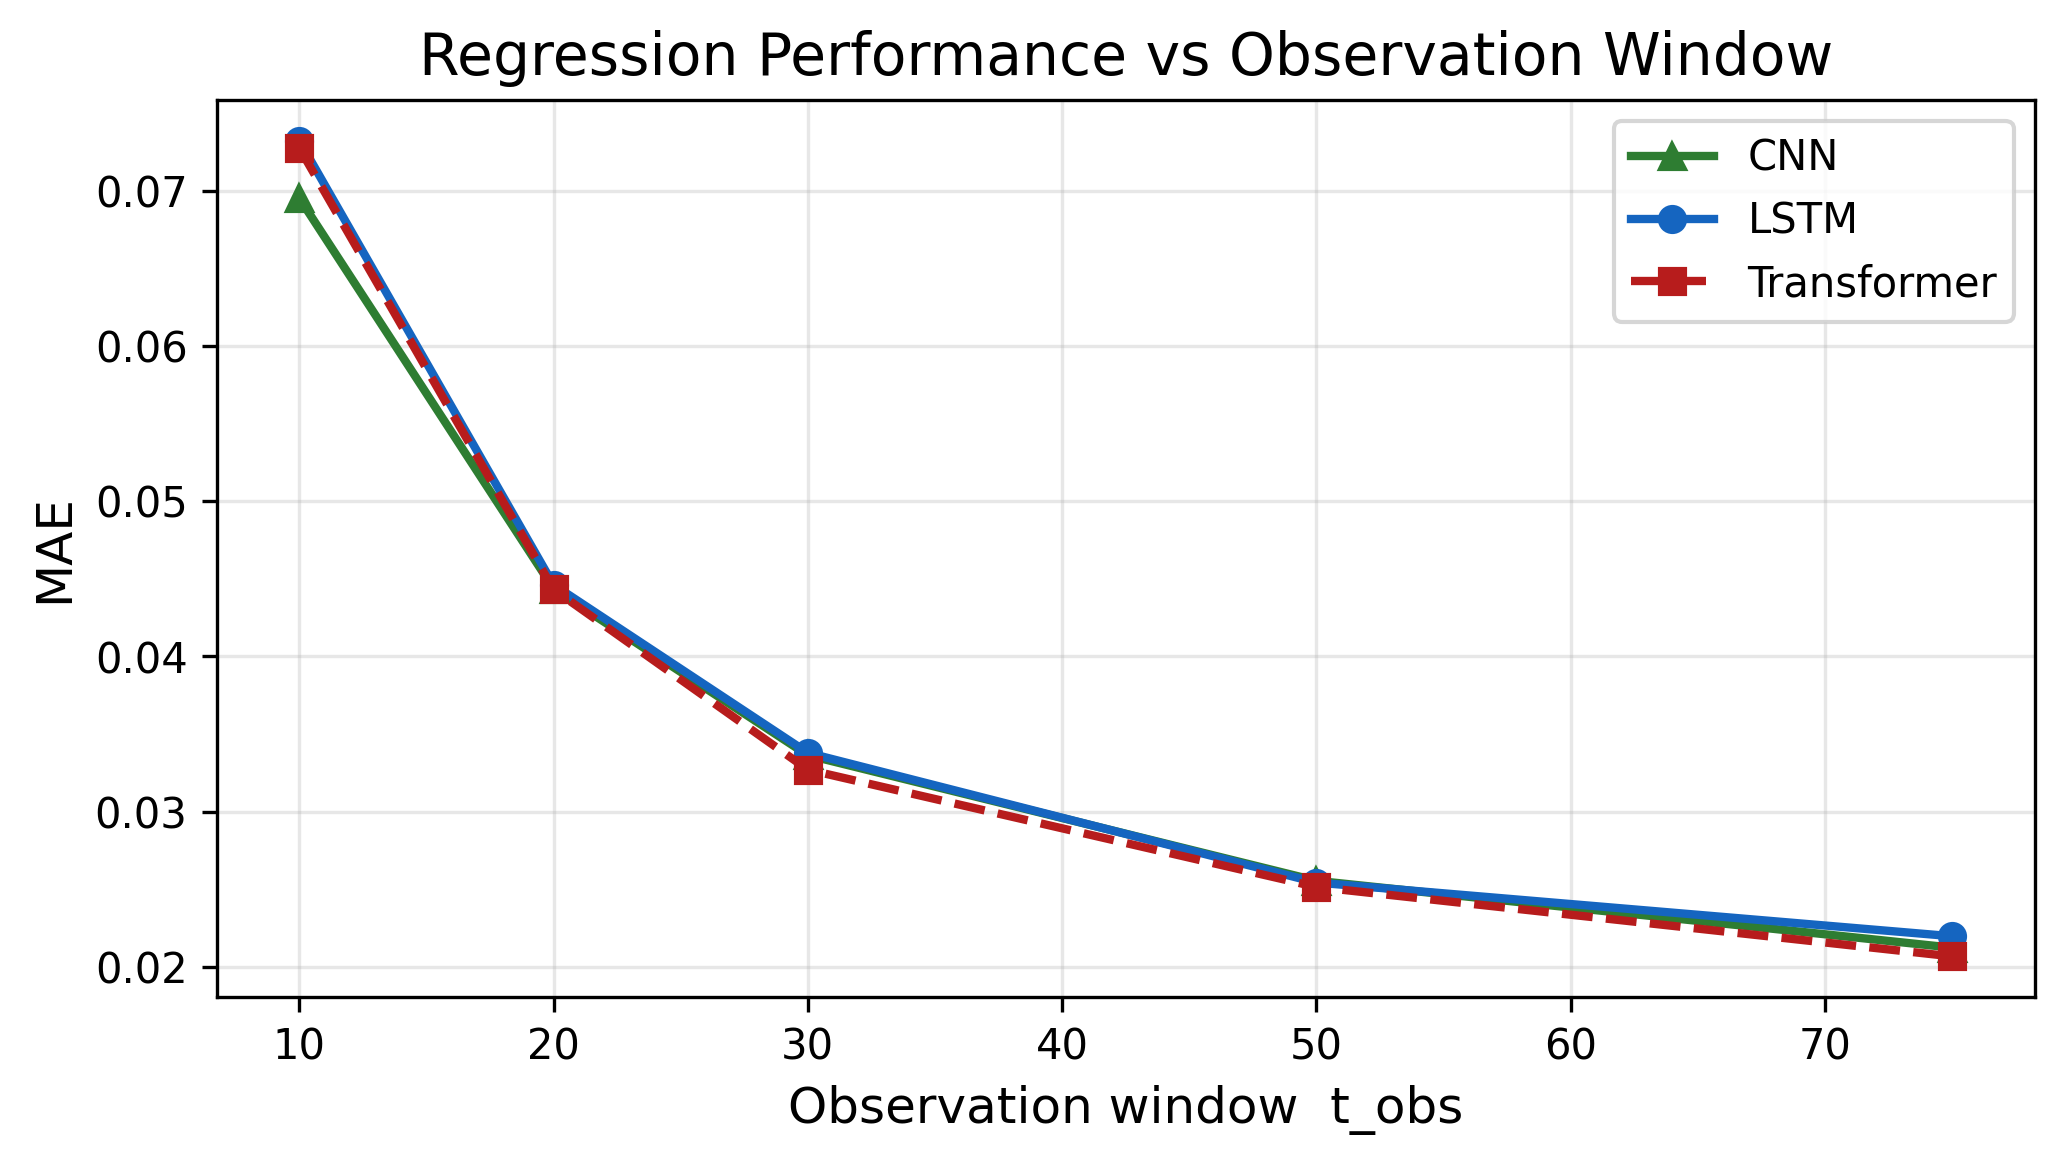
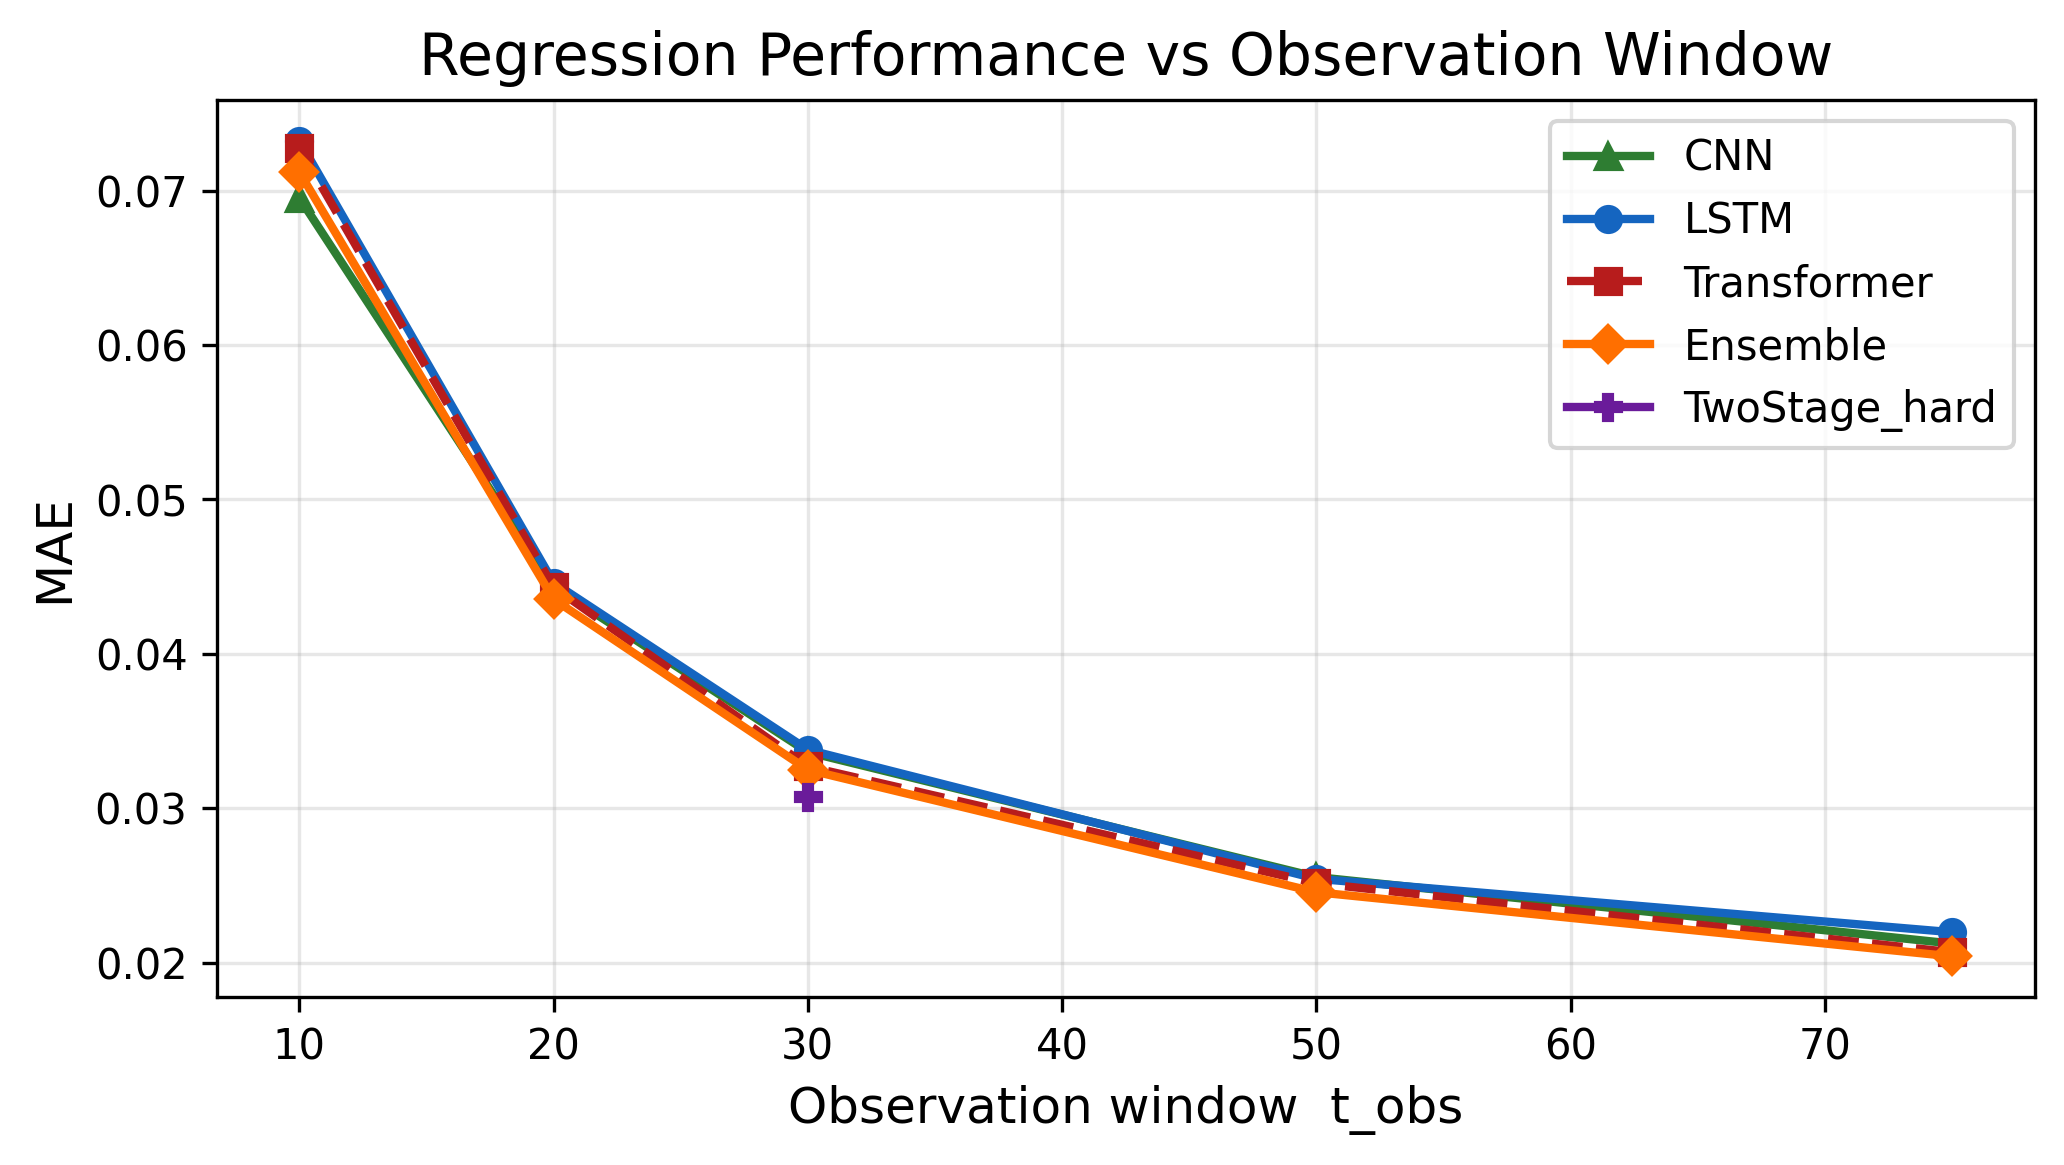
Mixture of expertsv2

diff --git a/src/dl/run_experiments.py b/src/dl/run_experiments.py
@@ -23,7 +23,7 @@ TRAIN_TRANSFORMER = True
 TRAIN_ENSEMBLE    = True
 TRAIN_MOE         = False
 TRAIN_TWO_STAGE   = True   # two-stage specialist training (CNN only, T_OBS_DEFAULT)
-RUN_VISUALISATIONS = False
+RUN_VISUALISATIONS = True
 FORCE_RETRAIN     = False
 
 T_OBS_VALUES  = [10, 20, 30, 50, 75]
@@ -59,7 +59,7 @@ if __package__ is None or __package__ == "":
     from dl.models import CNNEmbedder, LSTMEmbedder, TransformerEmbedder, SpecialistRegHead, EMBEDDING_DIM
     from dl.trainer import Trainer
     from dl.mixture_of_experts import MixtureOfExperts
-    from dl.wrappers import DLRegressor, DLClassifier, DLTwoStageRegressor
+    from dl.wrappers import DLRegressor, DLClassifier, DLTwoStageRegressor, DLDynamicRegressor, DLDynamicClassifier
     from dl.visualisation import (
         plot_R1_mae_vs_window, plot_R2_pred_vs_true, plot_R3_per_model_mae,
         plot_R4_embedding_2d, plot_C1_accuracy_vs_window, plot_C2_confusion_matrix,
@@ -70,7 +70,7 @@ else:
     from .models import CNNEmbedder, LSTMEmbedder, TransformerEmbedder, SpecialistRegHead, EMBEDDING_DIM
     from .trainer import Trainer
     from .mixture_of_experts import MixtureOfExperts
-    from .wrappers import DLRegressor, DLClassifier, DLTwoStageRegressor
+    from .wrappers import DLRegressor, DLClassifier, DLTwoStageRegressor, DLDynamicRegressor, DLDynamicClassifier
     from .visualisation import (
         plot_R1_mae_vs_window, plot_R2_pred_vs_true, plot_R3_per_model_mae,
         plot_R4_embedding_2d, plot_C1_accuracy_vs_window, plot_C2_confusion_matrix,
@@ -280,58 +280,71 @@ def save_dl_models(arch_name: str = "CNN", t_obs: int = T_OBS_DEFAULT):
     """
     Wrap trained DL models as sklearn-compatible objects and serialise to ml_data/:
 
-      dl_regressor.pkl  — DLTwoStageRegressor if specialists exist, else DLRegressor
-      dl_classifier.pkl — DLClassifier (predicts model_id from raw I(t)/N series)
+      dl_regressor.pkl  — DLDynamicRegressor  (auto-selects best t_obs for input length)
+      dl_classifier.pkl — DLDynamicClassifier (same)
 
-    Mirrors ml_analysis.py's save_models() so the app can load both identically.
-    Requires a bundle checkpoint (run run_experiments.py at least once first).
+    Collects all available CNN checkpoints across T_OBS_VALUES. At each t_obs,
+    uses DLTwoStageRegressor if a specialist checkpoint exists, else DLRegressor.
+    Falls back to a single-model wrapper if only one checkpoint is available.
     """
-    print(f"\n── SAVING DL MODELS ({arch_name}, t_obs={t_obs}) ───────────────────")
-    ckpt = _ckpt_path(arch_name, t_obs)
-    if not os.path.exists(ckpt):
+    print(f"\n── SAVING DL MODELS ({arch_name}) ───────────────────────────────────")
+
+    reg_models: dict = {}
+    clf_models: dict = {}
+
+    for t in T_OBS_VALUES:
+        ckpt = _ckpt_path(arch_name, t)
+        if not os.path.exists(ckpt):
+            continue
+
+        data = torch.load(ckpt, map_location="cpu", weights_only=False)
+        if not isinstance(data, dict) or "state_dict" not in data:
+            print(f"  Skipping t_obs={t}: old checkpoint format (retrain to upgrade).")
+            continue
+
+        kwargs = dict(
+            state_dict = data["state_dict"],
+            arch_name  = data["arch_name"],
+            n_features = data["n_features"],
+            t_obs      = data["t_obs"],
+            norm_max   = data["norm_max"],
+            feat_mean  = data["feat_mean"],
+            feat_std   = data["feat_std"],
+        )
+
+        spec_ckpt = _spec_ckpt_path(t)
+        if os.path.exists(spec_ckpt):
+            spec_data  = torch.load(spec_ckpt, map_location="cpu", weights_only=False)
+            reg_models[t] = DLTwoStageRegressor(**kwargs, specialist_heads=spec_data["reg_heads"])
+            reg_label  = "TwoStage"
+        else:
+            reg_models[t] = DLRegressor(**kwargs)
+            reg_label  = "generalist"
+
+        clf_models[t] = DLClassifier(**kwargs)
+        print(f"  t_obs={t:3d}: {reg_label} regressor + classifier loaded")
+
+    if not reg_models:
         raise FileNotFoundError(
-            f"No checkpoint found: {ckpt}\n"
-            "Run run_experiments.py first to train the model."
+            f"No bundle checkpoints found for {arch_name}.\n"
+            "Run run_experiments.py first to train the models."
         )
 
-    data = torch.load(ckpt, map_location="cpu", weights_only=False)
-    if not isinstance(data, dict) or "state_dict" not in data:
-        raise ValueError(
-            f"{ckpt} is in old format (raw state_dict).\n"
-            "Load it once via run_experiments.py to auto-upgrade, then retry."
-        )
-
-    kwargs = dict(
-        state_dict = data["state_dict"],
-        arch_name  = data["arch_name"],
-        n_features = data["n_features"],
-        t_obs      = data["t_obs"],
-        norm_max   = data["norm_max"],
-        feat_mean  = data["feat_mean"],
-        feat_std   = data["feat_std"],
-    )
-
-    # Use two-stage regressor if specialist checkpoint is available
-    spec_ckpt = _spec_ckpt_path(t_obs)
-    if os.path.exists(spec_ckpt):
-        spec_data = torch.load(spec_ckpt, map_location="cpu", weights_only=False)
-        reg = DLTwoStageRegressor(**kwargs, specialist_heads=spec_data["reg_heads"])
-        reg_label = "DLTwoStageRegressor"
+    if len(reg_models) > 1:
+        reg = DLDynamicRegressor(reg_models)
+        clf = DLDynamicClassifier(clf_models)
+        wrapper_label = f"DLDynamicRegressor/Classifier ({len(reg_models)} windows: {sorted(reg_models)})"
     else:
-        reg = DLRegressor(**kwargs)
-        reg_label = "DLRegressor"
-
-    clf = DLClassifier(**kwargs)
+        t_only = next(iter(reg_models))
+        reg = reg_models[t_only]
+        clf = clf_models[t_only]
+        wrapper_label = f"single t_obs={t_only}"
 
     reg_path = os.path.join(DATA_DIR, "dl_regressor.pkl")
     clf_path = os.path.join(DATA_DIR, "dl_classifier.pkl")
     joblib.dump(reg, reg_path)
     joblib.dump(clf, clf_path)
-
-    print(f"  dl_regressor.pkl  — {reg_label} ({arch_name}, t_obs={t_obs}, "
-          f"n_features={data['n_features']})")
-    print(f"  dl_classifier.pkl — DLClassifier ({arch_name}, t_obs={t_obs}, "
-          f"n_features={data['n_features']})")
+    print(f"  Saved: {wrapper_label}")
 
 
 # ── Main pipeline ─────────────────────────────────────────────────────────────

diff --git a/src/ui/tabs/ml_tab.py b/src/ui/tabs/ml_tab.py
@@ -49,12 +49,13 @@ except ImportError:
 
 def _find_ml_data() -> Path:
     for candidate in [
+        _SRC_DIR / "ml" / "ml_data",
         _SRC_DIR / "ml_data",
         _SRC_DIR.parent / "ml_data",
     ]:
         if candidate.exists() and (candidate / "dl_regressor.pkl").exists():
             return candidate
-    return _SRC_DIR / "ml_data"   # fallback — triggers demo mode
+    return _SRC_DIR / "ml" / "ml_data"   # fallback — triggers demo mode
 
 
 ML_DATA = _find_ml_data()
@@ -202,6 +203,11 @@ NETWORK_MULTIPLIER: dict[str, float] = {
     "Mixed social network (typical social media)":          1.00,
     "Influencer-driven network (few hubs, many followers)": 1.38,
 }
+
+# SIS-type models reach a long-run endemic equilibrium rather than dying out.
+# rho_final for these models = endemic steady-state fraction (NOT cumulative reach).
+# The peak of the trajectory is the more meaningful "maximum spread" metric.
+_ENDEMIC_MODELS = {"SIS", "WTM", "H4", "H5", "H6", "SIS-WTM hybrid"}
 
 TIPPING_THRESHOLDS: dict[str, float] = {
     "SIR": 0.05, "SIS": 0.05, "BP": 0.15, "WTM": 0.12,
@@ -729,7 +735,14 @@ def render_ml_virality_tab() -> None:
     conf        = res["confidence"]
     lo_pct      = max(0.0,   rho_pct - 1.5 * rho_std_pct)
     hi_pct      = min(100.0, rho_pct + 1.5 * rho_std_pct)
-    v_label, v_css, v_desc = _get_verdict(rho)
+
+    is_endemic  = model_name in _ENDEMIC_MODELS
+    traj_arr    = np.array(res["traj_pct"])
+    peak_pct    = float(traj_arr.max())
+    peak_rho    = peak_pct / 100.0
+
+    # For endemic models the verdict is driven by peak reach, not endemic level
+    v_label, v_css, v_desc = _get_verdict(peak_rho if is_endemic else rho)
 
     st.markdown("---")
 
@@ -745,18 +758,33 @@ def render_ml_virality_tab() -> None:
             f'</div>',
             unsafe_allow_html=True,
         )
-        st.metric("Predicted final reach", f"{rho_pct:.1f}%")
-        st.progress(float(np.clip(rho, 0, 1)))
-        st.markdown(
-            f'<div class="ml-ci-card">'
-            f'<p style="margin:0 0 6px 0;font-size:0.8rem;text-transform:uppercase;'
-            f'letter-spacing:0.08em;opacity:0.7">90% confidence interval</p>'
-            f'<h3 style="margin:0">{lo_pct:.1f}% &ndash; {hi_pct:.1f}%</h3>'
-            f'<p style="margin:6px 0 0 0;font-size:0.85rem;opacity:0.7">'
-            f'±{rho_std_pct:.1f} pp standard deviation</p>'
-            f'</div>',
-            unsafe_allow_html=True,
-        )
+
+        if is_endemic:
+            st.metric("Peak reach (maximum simultaneously infected)", f"{peak_pct:.1f}%")
+            st.progress(float(np.clip(peak_rho, 0, 1)))
+            st.markdown(
+                f'<div class="ml-ci-card">'
+                f'<p style="margin:0 0 6px 0;font-size:0.8rem;text-transform:uppercase;'
+                f'letter-spacing:0.08em;opacity:0.7">Endemic equilibrium level</p>'
+                f'<h3 style="margin:0">{rho_pct:.1f}%</h3>'
+                f'<p style="margin:6px 0 0 0;font-size:0.85rem;opacity:0.7">'
+                f'Long-run fraction remaining infected after the peak</p>'
+                f'</div>',
+                unsafe_allow_html=True,
+            )
+        else:
+            st.metric("Predicted final reach (cumulative ever-infected)", f"{rho_pct:.1f}%")
+            st.progress(float(np.clip(rho, 0, 1)))
+            st.markdown(
+                f'<div class="ml-ci-card">'
+                f'<p style="margin:0 0 6px 0;font-size:0.8rem;text-transform:uppercase;'
+                f'letter-spacing:0.08em;opacity:0.7">90% confidence interval</p>'
+                f'<h3 style="margin:0">{lo_pct:.1f}% &ndash; {hi_pct:.1f}%</h3>'
+                f'<p style="margin:6px 0 0 0;font-size:0.85rem;opacity:0.7">'
+                f'±{rho_std_pct:.1f} pp standard deviation</p>'
+                f'</div>',
+                unsafe_allow_html=True,
+            )
 
     with col_m:
         st.markdown(
@@ -856,26 +884,42 @@ def render_ml_virality_tab() -> None:
         extra_users = max(1, int(gap * 10_000))
         avg_step    = max(float(np.mean(np.diff(obs_arr))) / 100.0, 1e-5)
         hours_est   = max(1, int(gap / avg_step))
+        plateau_line = (
+            f"- Current trajectory suggests a peak of **{peak_pct:.1f}%** "
+            f"simultaneously infected, with a long-run endemic level of **{rho_pct:.1f}%**"
+            if is_endemic else
+            f"- Current trajectory suggests it will plateau at **{rho_pct:.1f}%** "
+            f"cumulative reach (ever-infected)"
+        )
         st.warning(
             f"⚠️ **This content has NOT yet crossed the viral tipping point.**\n\n"
             f"To push it over the threshold:\n\n"
             f"- Getting **{extra_users:,} more high-connectivity nodes** to share "
             f"in the next **{hours_est} steps** could trigger a cascade\n"
-            f"- Current trajectory suggests it will plateau at **{rho_pct:.1f}%** "
-            f"of the network"
+            f"{plateau_line}"
         )
 
     st.markdown("---")
     with st.expander("📋 Export Results"):
         graph_line = ("Graph-conditioned: Yes" if res.get("graph_conditioned")
                       else f"Network type        : {network_type or 'n/a'}")
+        if is_endemic:
+            reach_lines = (
+                f"Peak reach          : {peak_pct:.1f}%  (max simultaneously infected)\n"
+                f"Endemic equilibrium : {rho_pct:.1f}%  (long-run steady-state fraction)\n"
+            )
+        else:
+            reach_lines = (
+                f"Predicted reach     : {rho_pct:.1f}%  (range: {lo_pct:.1f}%–{hi_pct:.1f}%)\n"
+                f"                      (cumulative ever-infected)\n"
+            )
         summary_txt = (
             f"Virality Prediction Report\n"
             f"{'=' * 40}\n"
             f"Content type        : {content_type}\n"
             f"{graph_line}\n"
             f"Verdict             : {v_label}\n"
-            f"Predicted reach     : {rho_pct:.1f}%  (range: {lo_pct:.1f}%–{hi_pct:.1f}%)\n"
+            f"{reach_lines}"
             f"Spreading mechanism : {minfo['label']} ({model_name})\n"
             f"Confidence          : {conf * 100:.0f}%\n"
             f"Tipping point       : {'Crossed ✅' if crossed else 'Not yet ⚠️'}\n"

diff --git a/src/dl/wrappers.py b/src/dl/wrappers.py
@@ -15,6 +15,12 @@ Usage:
 Two-stage regressor (drop-in replacement for DLRegressor):
     reg = joblib.load("ml_data/dl_regressor.pkl")   # may be DLTwoStageRegressor
     rho = reg.predict(I_series_matrix)               # same interface
+
+Dynamic wrappers (select best-matching t_obs at inference):
+    reg = joblib.load("ml_data/dl_regressor.pkl")   # DLDynamicRegressor
+    clf = joblib.load("ml_data/dl_classifier.pkl")  # DLDynamicClassifier
+    # Model with t_obs closest to (but not exceeding) input length is used.
+    # Falls back to smallest available t_obs if input is shorter than all windows.
 """
 
 import numpy as np
@@ -213,3 +219,56 @@ class DLTwoStageRegressor(_DLWrapper):
                     rho_pred[mask] = specialist(full_emb[mask_t]).numpy()
 
         return rho_pred
+
+
+# ── Dynamic wrappers ──────────────────────────────────────────────────────────
+
+class _DLDynamicBase:
+    """
+    Holds one inner model per t_obs and routes each call to the model whose
+    window best matches the actual input length:
+      - largest available t_obs that does not exceed the input length, OR
+      - smallest available t_obs if the input is shorter than all windows.
+    """
+
+    def __init__(self, models: dict):
+        """
+        Parameters
+        ----------
+        models : dict {t_obs (int): DLRegressor / DLClassifier / DLTwoStageRegressor}
+        """
+        if not models:
+            raise ValueError("models dict must not be empty")
+        self._models = models
+        self._t_obs_sorted = sorted(models.keys())
+
+    def _select(self, n_steps: int) -> int:
+        candidates = [t for t in self._t_obs_sorted if t <= n_steps]
+        return max(candidates) if candidates else self._t_obs_sorted[0]
+
+    @property
+    def t_obs_available(self):
+        return list(self._t_obs_sorted)
+
+
+class DLDynamicRegressor(_DLDynamicBase):
+    """Dynamic regressor — selects the best-matching t_obs model per call."""
+
+    def predict(self, I_series_matrix, graph_features=None):
+        n_steps = np.asarray(I_series_matrix).shape[1]
+        t_obs   = self._select(n_steps)
+        return self._models[t_obs].predict(I_series_matrix, graph_features)
+
+
+class DLDynamicClassifier(_DLDynamicBase):
+    """Dynamic classifier — selects the best-matching t_obs model per call."""
+
+    def predict(self, I_series_matrix, graph_features=None):
+        n_steps = np.asarray(I_series_matrix).shape[1]
+        t_obs   = self._select(n_steps)
+        return self._models[t_obs].predict(I_series_matrix, graph_features)
+
+    def predict_proba(self, I_series_matrix, graph_features=None):
+        n_steps = np.asarray(I_series_matrix).shape[1]
+        t_obs   = self._select(n_steps)
+        return self._models[t_obs].predict_proba(I_series_matrix, graph_features)